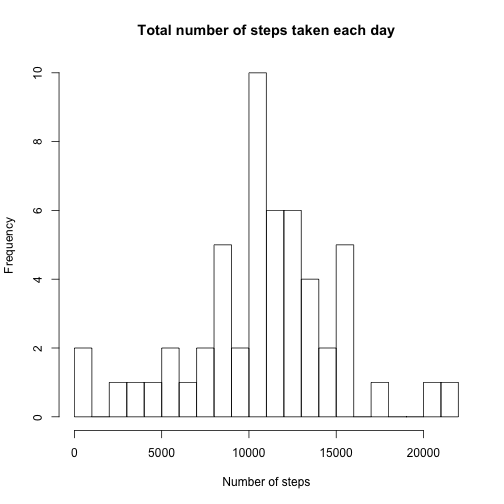
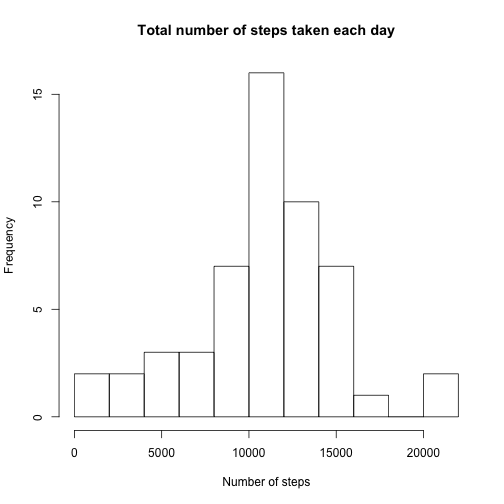
reduced number of bins in graph with "breaks = ..." argument

diff --git a/PA1_template.html b/PA1_template.html
@@ -211,6 +211,7 @@ hr {
 library(&quot;dplyr&quot;)
 library(&quot;ggplot2&quot;)
 library(&quot;tidyr&quot;)
+library(&quot;knitr&quot;)
 activity &lt;- read.csv(&quot;activity.csv&quot;, header = TRUE, sep = &quot;,&quot;, colClasses = c(&quot;integer&quot;, &quot;Date&quot;, &quot;factor&quot;))
 df &lt;- activity %&gt;%
   filter(!is.na(steps)) %&gt;%
@@ -237,10 +238,10 @@ df &lt;- activity %&gt;%
 
 <h4>2. Make a histogram of the total number of steps taken each day</h4>
 
-<pre><code class="r">hist(df$steps, breaks = 20, main = &quot;Total number of steps taken each day&quot;, ylab = &quot;Frequency&quot;, xlab = &quot;Number of steps&quot;)
+<pre><code class="r">hist(df$steps, breaks = 10, main = &quot;Total number of steps taken each day&quot;, ylab = &quot;Frequency&quot;, xlab = &quot;Number of steps&quot;)
 </code></pre>
 
[2 lines of base64/hex data omitted]
 
 <h4>Calculate and report the mean and median of the total number of steps taken per day</h4>
 

diff --git a/PA1_template.md b/PA1_template.md
@@ -11,6 +11,7 @@ library("plyr")
 library("dplyr")
 library("ggplot2")
 library("tidyr")
+library("knitr")
 activity <- read.csv("activity.csv", header = TRUE, sep = ",", colClasses = c("integer", "Date", "factor"))
 df <- activity %>%
   filter(!is.na(steps)) %>%
@@ -42,7 +43,7 @@ df <- activity %>%
 
 
 ```r
-hist(df$steps, breaks = 20, main = "Total number of steps taken each day", ylab = "Frequency", xlab = "Number of steps")
+hist(df$steps, breaks = 10, main = "Total number of steps taken each day", ylab = "Frequency", xlab = "Number of steps")
 ```
 
 ![plot of chunk unnamed-chunk-2](figure/unnamed-chunk-2-1.png) 
